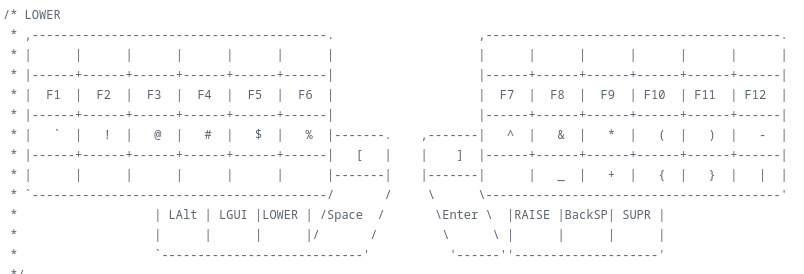
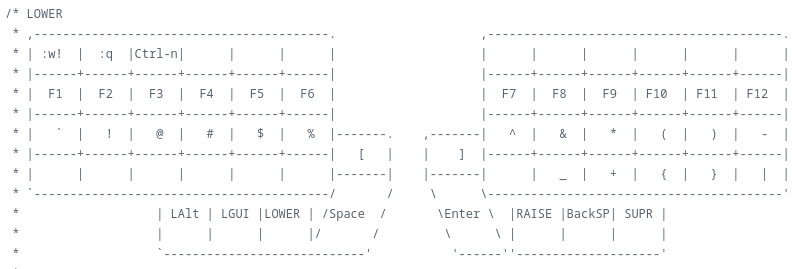
low bttr

diff --git a/Htmls/CADs/pzscomplx.html b/Htmls/CADs/pzscomplx.html
@@ -14,7 +14,7 @@
     <a href="../../index.html" class="tab ">Me</a>
     <a href="../proyectos.html" class="tab ">Proyectos</a>
     <a href="../colabs.html" class="tab">Colaboraciones</a>
-    <a href="../Htmls/CAD.html" class="tab active">CAD</a>
+    <a href="../CAD.html" class="tab active">CAD</a>
     <a href="../contacto.html" class="tab">Contacto</a>
 </nav>
 <a href="../CAD.html" class="boton-regresar animar-entrada">Regresar</a>

diff --git a/Htmls/CADs/pzsimples.html b/Htmls/CADs/pzsimples.html
@@ -13,7 +13,7 @@
     <a href="../../index.html" class="tab ">Me</a>
     <a href="../proyectos.html" class="tab ">Proyectos</a>
     <a href="../colabs.html" class="tab">Colaboraciones</a>
-    <a href="../Htmls/CAD.html" class="tab active">CAD</a>
+    <a href="../CAD.html" class="tab active">CAD</a>
     <a href="../contacto.html" class="tab">Contacto</a>
 </nav>
 <a href="../CAD.html" class="boton-regresar animar-entrada">Regresar</a>

diff --git a/Htmls/proyects/carrito.html b/Htmls/proyects/carrito.html
@@ -12,7 +12,7 @@
     <a href="../../index.html" class="tab ">Me</a>
     <a href="../proyectos.html" class="tab active">Proyectos</a>
     <a href="../colabs.html" class="tab">Colaboraciones</a>
-    <a href="../Htmls/CAD.html" class="tab ">CAD</a>
+    <a href="../CAD.html" class="tab ">CAD</a>
     <a href="../contacto.html" class="tab">Contacto</a>
 </nav>
 <a href="../proyectos.html" class="boton-regresar animar-entrada">Regresar</a>

diff --git a/Htmls/proyects/teclado.html b/Htmls/proyects/teclado.html
@@ -13,7 +13,7 @@
     <a href="../../index.html" class="tab ">Me</a>
     <a href="../proyectos.html" class="tab active">Proyectos</a>
     <a href="../colabs.html" class="tab">Colaboraciones</a>
-    <a href="../Htmls/CAD.html" class="tab ">CAD</a>
+    <a href="../CAD.html" class="tab ">CAD</a>
     <a href="../contacto.html" class="tab">Contacto</a>
 </nav>
 
